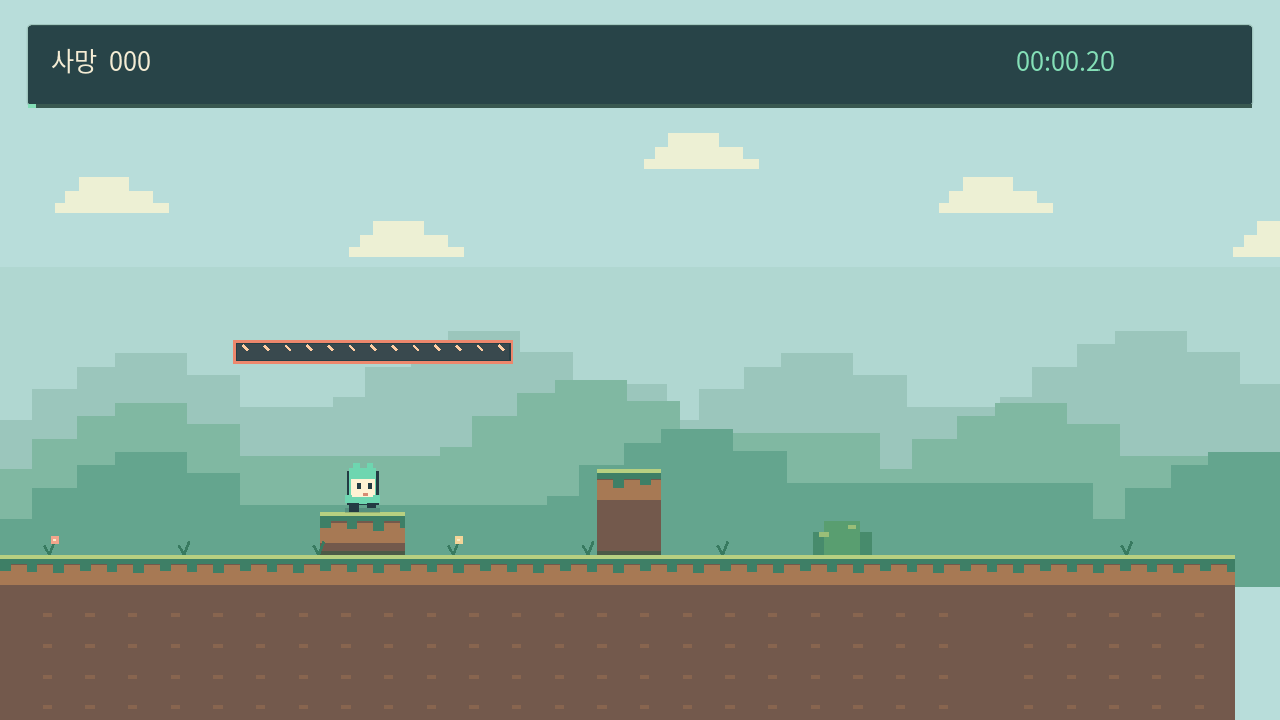
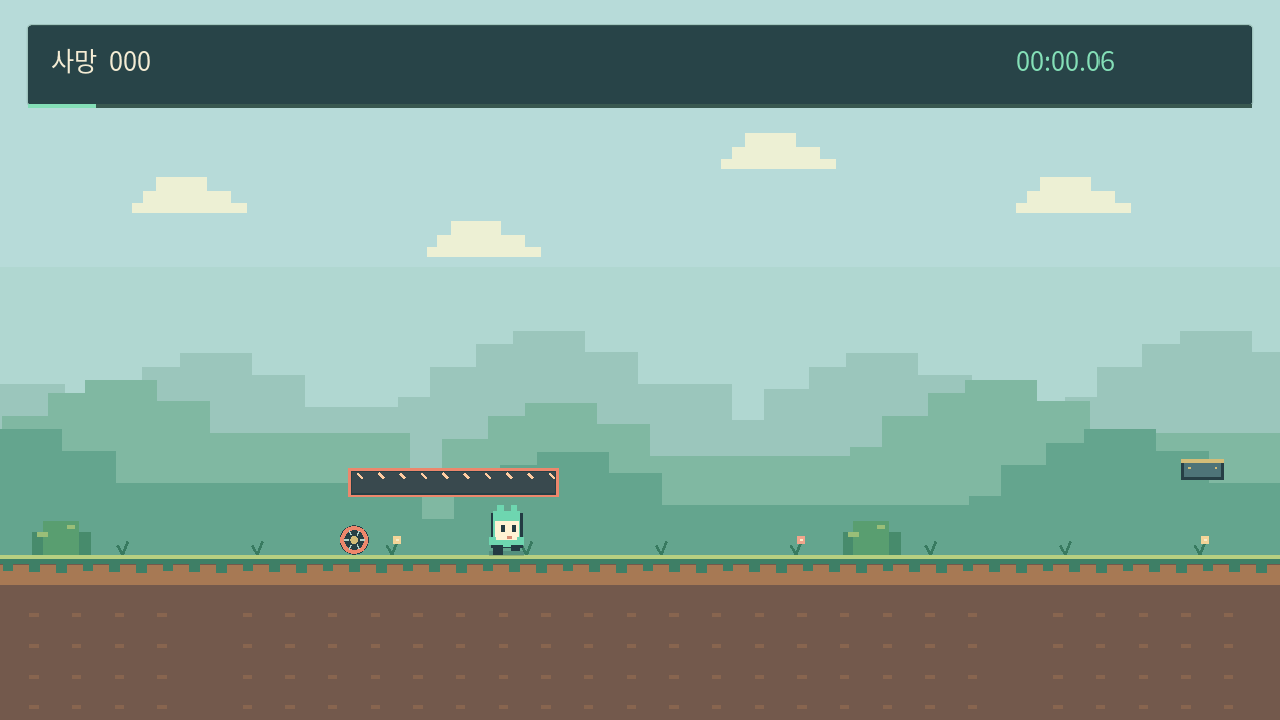
fix: restore trap decisions and restrict climbing to grip walls

diff --git a/docs/COURSE_IMPLEMENTATION.md b/docs/COURSE_IMPLEMENTATION.md
@@ -1,8 +1,14 @@
-# 연속 코스 구현 — v0.5.0
+# 연속 코스 구현 — v0.5.1
 
 단일 월드 **27,968px**에서 길이 560~896px의 40개 만남을 끊김 없이 진행한다. `WIDTHS`, `OFFSETS`, `origin()`, `number_at()`이 실제 경계를 정의하며 카메라 잠금·방 전환은 없다. 감지 위치도 구간마다 다르다. 체크포인트는 **x=10,992와 22,304 두 곳**이며 추가하지 않았다. 구간 번호와 아래 해법은 개발 문서에만 있다.
 
-## 0.5.0 공통 요소와 공간
+## 0.5.1 원래 함정 구조와 벽타기 제한
+
+0.5.0의 첫 점프 완화와 넓은 머리 공간은 원복했다. 첫 사각형은 작동 전 없다가 원래 0.025초 임계값 뒤 x=176/y=304/폭168/높이18로 나타난다. 짧은 첫 점프는 통과하고 긴 점프는 사망한다. 공통 낮은 천장은 0.4.1보다 16px만 올린 y=352/높이20으로, 귀 위7px를 남기지만 짧은 점프도 허용하지 않는다. 옆에서 들어오는 3·5번 칼날의 원래 시계와 이동은 유지한다. 4·15·16 스위치 높이, 12번 대기 낙하물과 16번 오답 낙하 위치, 36번 개별 천장은 0.4.1 위치로 돌렸다. 후반 연속 공격에 추가 변경은 하지 않았다.
+
+벽 오르기·벽 점프·벽 미끄럼은 `climbable_walls`의 실제 측면 충돌에서만 허용한다. 현재 14번 등반 기둥 하나에 손잡이를 그렸으며 인접 지형·문·발판에는 권한이 없다. 23번의 사슬→아이템 충전→높은 벽 경로는 자유 등반 없이 통과한다. 공중 점프 아이템과 사슬 물리는 유지한다. 코스 ID는 `continuous-40-v4`, v3 최고 기록은 보관하고 누적 횟수/설정은 유지한다.
+
+## 0.5.0 공통 요소와 공간 (당시 변경 이력)
 
 [요소 공통 규칙](ELEMENT_RULES.md)에 따라 지형·안전 발판·작동 장치·이동 기믹·아이템·치명적 장애물을 같은 종류와 재질로 관리한다. 원형 칼날은 원 판정, 치명적 고체는 실제 접촉을 사용한다. 크기로 종류를 추정하던 렌더와 문 바깥 2px 피해 영역을 제거했다. 숨은 바닥/센서는 계속 주변 지면과 같은 모습이다.
 
@@ -37,7 +43,7 @@
 - `encounter.gd`: 40개 감지/판단과 대기→발동→활성→소진 상태. 물리 120Hz 시계로 위험 도형, 스위치, 이동 표면을 갱신한다. 사망 횟수나 난수로 규칙을 바꾸지 않는다.
 - `surface.gd`: 실제 콜라이더를 가진 붕괴/이동/승강/벨트. 캐릭터에 표면 변위와 접촉 중 벨트 속도를 적용하고 이탈 속도를 추가 상속하지 않는다.
 - `device.gd`: 실제 접촉으로 얻는 공중 점프 1회 충전, 다리/미끼 아이템, 점프대, 매달리고 오르내리는 사슬.
-- `player.gd`: 기본 이동/가변 점프/코요테/버퍼, 충전 공중 점프, 벽 슬라이드·W 오르기·벽 점프, 사슬 오르내리기와 점프 이탈. 점프대는 -760px/s로 발사하며 버튼 해제로 잘리지 않는다.
+- `player.gd`: 기본 이동/가변 점프/코요테/버퍼, 충전 공중 점프, 지정 벽에서만 벽 슬라이드·W 오르기·벽 점프, 사슬 오르내리기와 점프 이탈. 점프대는 -760px/s로 발사하며 버튼 해제로 잘리지 않는다.
 
 사망·재시작은 모든 센서, 타이머, 발자국 예약, 표면 위치·충돌, 아이템, 미끼, 압력판, 가짜 연출, 사슬 소유와 임시 점프 충전을 함께 초기화한다. 이미 활성화한 체크포인트는 사망 시 유지한다. 일시정지 중 입력과 시계·표면·사슬은 멈춘다. 가짜 피격과 가짜 문은 실제 사망/클리어/입력 잠금을 호출하지 않는다.
 
@@ -45,7 +51,7 @@
 
 | # | 초기 카드의 판단 | 현재 구현 / 추가 기믹 |
 |---|---|---|
-|01|첫 점프 수금|첫 평지 점프는 길게 눌러도 허용. 단차 위 재도약에는 천장이 남고, 뒤 높은 지형은 긴 점프로 통과|
+|01|첫 점프 수금|사전 표시 없이 사각형 등장. 첫 단차는 짧게, 뒤 높은 지형은 길게 점프|
 |02|도착지는 없다|중간선에서 큰 착지판 붕괴. 작은 실제 판에서 두 번 도약|
 |03|걷기만 하면 죽는다|낮은 천장을 벗어난 뒤 뒤 칼을 넘는 늦은 도약|
 |04|안전한 대기실|공통 시계 통로. 실제 머리 접촉으로 일찍 여는 경로 추가|
@@ -90,7 +96,7 @@
 
 ## 기록 호환
 
-같은 사용자 폴더와 기존 저장 형식을 사용한다. 누적 시작/사망/클리어와 소리 설정은 보존한다. 맵이 달라진 이전 최고 시간·무사망·비밀 기록은 `legacy`의 이전 코스 키(`meadow-v1`, `continuous-40-v1`, `continuous-40-v2`)로 보관하고 새 코스의 해당 기록을 별도로 시작한다. 플레이 도중 위치는 현재 체크포인트에서만 복귀하며 프로그램 재실행 후 위치를 복원하는 기능은 기존처럼 제공하지 않는다.
+같은 사용자 폴더와 기존 저장 형식을 사용한다. 누적 시작/사망/클리어와 소리 설정은 보존한다. 맵이 달라진 이전 최고 시간·무사망·비밀 기록은 `legacy`의 이전 코스 키(`meadow-v1`, `continuous-40-v1`, `continuous-40-v2`, `continuous-40-v3`)로 보관하고 새 코스의 해당 기록을 별도로 시작한다. 플레이 도중 위치는 현재 체크포인트에서만 복귀하며 프로그램 재실행 후 위치를 복원하는 기능은 기존처럼 제공하지 않는다.
 
 ## 검증
 
@@ -104,3 +110,5 @@
 Linux X11/Mesa의 렌더 캡처는 숨은 판 4곳, 파손 전후, 세로로 긴 화면의 지면, 초반 지형과 상부 길을 확인했다. 시각 점검용 초기 위치 지정은 전체 공략 결과에 포함하지 않는다. 테스트·Windows 설치 검증 결과는 `VALIDATION.md`에 기록한다.
 
 - `elements_tests.gd`: 실제 고체 접촉의 안전/살상 구분, 원형 칼날 모서리, 그룹, 처음 긴 도약과 단차 위 오답, 머리 공간과 v2 기록 보관을 검사한다.
+
+- `movement_scope_tests.gd`: 두 측면 공격 통로의 작은 여백과 짧은 점프 사망, 전용 벽 등반/벽 점프, 일반 벽의 등반/반복 벽 점프/감속 차단과 아이템 점프 보존을 실제 충돌/입력으로 확인한다.

diff --git a/docs/ELEMENT_RULES.md b/docs/ELEMENT_RULES.md
@@ -1,4 +1,4 @@
-# 요소 공통 규칙 — 0.5.0
+# 요소 공통 규칙 — 0.5.1
 
 `scripts/elements.gd`가 요소 종류, 그룹, 재질, 접촉 규칙과 기본 머리 공간을 정의한다. 크기를 보고 위험물 종류를 추정하지 않는다. 설명문이나 범례는 게임 화면에 넣지 않는다.
 
@@ -21,12 +21,19 @@
 - 원형 칼날은 원과 캐릭터 피해 상자의 접촉으로 검사한다. 사각형 모서리에 보이지 않는 피해가 없다. 다른 공격은 표시된 사각형을 쓴다.
 - 이동 발판의 운반, 착지, 점프대/충전/사슬 조작은 기존 공통 플레이어 물리를 사용한다.
 
-## 머리 공간
+## 공간과 난이도
 
-캐릭터 귀까지 37px를 포함해 서 있는 위치에서 최소 48px의 기본 머리 공간을 잡는다. 평지 낮은 천장은 y=312, 두께 16으로, 지면 y=416에서 51px를 남긴다. 머리 스위치 4·15·16과 12번 대기 중 낙하물에도 같은 기준을 적용했다. 고의로 압착되는 작동 중 상태나 승강기 꼭대기 같은 개별 위험 상황은 이 대기 공간 기준과 구별한다.
+지형/장치의 재질 통일과 난이도 조정은 별개다. 시각 정리 요청만으로 점프 조건이나 정답 동작을 완화하지 않는다. 0.5.0에서 넓힌 첫 함정과 스위치/낙하물 위치는 0.5.1에서 원복했다.
 
-1번은 천장을 y=224에서 256으로 내리고 두께 16, 폭 208로 구성했다. 첫 단차 y=384 위에서 귀까지의 간격이 이전 25px에서 75px로 늘었다. 평지에서 처음 누르는 긴 점프도 통과하며 정점에서도 약 20px를 남긴다. 높은 단차 위에서 다시 긴 점프를 하면 천장에 닿는다. 처음부터 짧은 점프만 강요하던 배치를 완화하면서 이후의 높이 선택은 유지한다.
+- 첫 사각형은 작동 전 보이지 않는다. 공중 진입 조건 뒤 시계가 0.025초를 넘으면 x=176/y=304, 폭168/높이18로 나타난다. 대기 하우징·0.18초 하강 동작을 제거했다. 첫 짧은 점프는 통과하고 긴 점프는 사망한다.
+- 공통 낮은 천장은 원래 y=368/높이20에서 **y=352/높이20**으로 16px만 올렸다. 평지 y=416에서 귀까지37px를 포함해 7px를 남긴다. 테두리를 고려해도 최소6px를 남기는 기준이다. 짧게 눌렀다 떼는 점프도 부딪히므로 천장 밖에서 뛰거나 후퇴하는 기존 판단을 유지한다. 3·5번 옆으로 들어오는 칼날의 센서·속도·진행 방향·공격 시간은 바꾸지 않았다.
+- 4·15·16 머리 스위치는 y=344/344/336, 12번 낙하물 대기 위치는 y=320, 16번 오답 낙하는 x=308, 36번 천장은 y=320/높이16으로 원복했다. 일반 천장의 간격 기준을 머리 접촉 스위치나 승강기 꼭대기에 강제하지 않는다.
+- 후반 연속 공격에 별도 난이도 변경을 추가하지 않는다. 공통 색/종류와 센서 숨김, 기존 걸쇠 문 동작은 유지한다.
 
-머리 스위치가 올라간 만큼 4번은 충분히 길게 도약해야 작동하며, 16번 오답 뒤 낙하물은 x=368로 이동해 실제 오답 경로에서 작동한다. 40개 구간의 길이와 두 체크포인트는 유지한다. 코스는 `continuous-40-v3`로 구별하고 v2 최고 기록은 보관한다.
+## 벽타기 범위
 
-검증은 `tests/elements_tests.gd`, 전체 두 경로와 오답 40개 검사로 수행한다. 새 요소를 추가할 때 이 파일의 종류/렌더러/접촉 규칙을 재사용하고, 지형에 위험 재질을 임의로 섞거나 안전 발판에 피해 판정을 붙이지 않는다.
+기본 벽 오르기·벽 점프·벽 미끄럼 감속은 사용할 수 없다. `course.gd`의 `climbable_solids`에 지정한 정적 지형만 `climbable_walls` 그룹에 넣는다. 현재는 14번 로컬 x=344/y=224의 기둥 한 개다. 방 전체, 모든 흙 벽, 이동 발판이나 문을 허용하지 않는다. 지정 벽에는 금속 손잡이를 그리며 안내문은 추가하지 않는다.
+
+플레이어는 직전 실제 측면 충돌의 콜라이더와 법선을 확인해 세 기능을 함께 허용한다. 전용 벽에서 떠나면 일반 벽으로 권한이 넘어가지 않는다. 지상 점프·아이템 충전 공중 점프·사슬 동작은 유지한다. 특히 23번 높은 벽은 사슬과 실제 충전을 이용해 통과하며 자유 벽타기로 대체하지 않는다.
+
+40개 구간의 길이와 두 체크포인트는 유지한다. 첫 점프 원복과 벽타기 제한으로 코스는 `continuous-40-v4`이며 v3 최고 기록은 보관한다. 누적 횟수와 설정은 유지한다. `elements_tests.gd`, `movement_scope_tests.gd`와 전체 두 경로·오답 40개를 검사한다. 새 요소는 공통 종류/렌더러/접촉 규칙을 재사용한다.

diff --git a/docs/VALIDATION.md b/docs/VALIDATION.md
@@ -118,3 +118,13 @@ Godot 4.6.3에서 지형·안전 발판·문/스위치·이동 장치·아이템
 - Linux X11/Xvfb/Mesa 소프트웨어 OpenGL에서 타이틀·초반 단차/첫 도약·안전 걸쇠 문·치명적 압착기·사슬을 캡처했다. 안전/위험 재질과 여유 공간, 센서 미표시를 확인하고 공개 스크린샷을 현재 렌더로 갱신했다. 캡처의 위치 지정은 실제 입력 완주 검증과 구별한다.
 - `continuous-40-v2` 최고 기록 보관과 누적 횟수/설정 보존을 검사했다. 새 코스 ID는 v3이다.
 - Android는 공통 코드 재사용과 추가 작업을 [검토](ANDROID_PLAN.md)했다. APK 내보내기나 실기기 터치/성능은 검증하지 않았다. Windows 설치·재설치·기동·제거 및 기록 보존은 배포 CI에서 확인한다.
+
+## v0.5.1 구조 원복과 벽타기 범위
+
+0.5.0의 공간 확대를 원복하고, 공통 낮은 천장만 0.4.1보다16px 높여 귀 위7px를 남겼다. 첫 사각형은 하우징/하강 없이 원래 임계값 뒤 나타난다. 4·15·16 스위치, 12번 대기 낙하물, 16번 오답 낙하와 36번 천장 위치도 원복했다. 재질/종류 통일과 센서 숨김은 유지한다.
+
+- 기존 641개와 새 이동 범위14개로 **655개 검사 통과**, 릴리스 설정2개와 워크플로 YAML 파싱 통과. 3·5번에서 실제 서 있는 캐릭터의 작은 간격을 검사하고, 2틱만 점프를 눌러도 사망하는 것을 확인했다. 첫 짧은 점프 성공/긴 점프 실패와 작동 전 미표시도 검사한다.
+- 실제 14번 기둥만 등반 그룹에 속한다. 등반/벽 점프는 유지하고, 일반 벽에서 W로 오르기·반복 벽 점프·감속이 불가능한 것을 실제 충돌/입력으로 확인했다. 일반 벽에서도 충전 아이템 점프는 사용/소진되며, 이전 전용 벽 접촉이나 일시정지로 권한이 넘어가지 않는다.
+- 일반 완주 **148.925초 / 17,871틱**, 숙련 완주 **135.433초 / 16,252틱**. 모두 사망0회·체크포인트2개·비밀 별 획득, 구간 이동 없이 시작부터 실제 입력을 사용했다. 23번의 사슬/충전/벽 통과를 포함하며 자유 벽타기를 사용하지 않는다. 두 테이프의 30fps 재생과 장치 위 일시정지3회에서도 매 틱 위치/최종 시간이 일치했다.
+- Linux X11/Xvfb/Mesa OpenGL에서 첫 함정 작동 전/후, 두 측면 공격 통로의 작은 간격과 전용 벽 손잡이/등반을 캡처했다. 공개 이미지를 현재 타이틀/플레이로 갱신했다. 캡처는 개발용 위치 지정이며 입력 완주와 구별한다. Windows 설치·재설치·실행·제거 및 기록 보존은 배포 CI에서 확인한다.
+- 코스 ID는 v4이며 v3 최고 기록 보관과 누적 횟수/설정 보존을 검사했다. 이전 버전의 넓은 머리 공간 설명은 당시 변경 이력이다.

diff --git a/docs/DEVELOPMENT.md b/docs/DEVELOPMENT.md
@@ -32,6 +32,7 @@ godot --headless --fixed-fps 120 --script tests/course_tests.gd -- --test
 godot --headless --fixed-fps 120 --script tests/gameplay_revision_tests.gd -- --test
 godot --headless --fixed-fps 120 --script tests/fairness_tests.gd -- --test
 godot --headless --fixed-fps 120 --script tests/elements_tests.gd -- --test
+godot --headless --fixed-fps 120 --script tests/movement_scope_tests.gd -- --test
 godot --headless --fixed-fps 120 --script tests/wrong_routes.gd -- --test
 godot --headless --fixed-fps 120 --script tests/playthrough.gd -- --test
 godot --headless --fixed-fps 30 --script tests/replay.gd -- --test --pauses
@@ -121,3 +122,5 @@ v0.5.0은 단일 씬에서 40개 구간을 끊김 없이 진행합니다. 체크
 ## 공통 요소와 Android
 
 요소 종류·그룹·재질·접촉 규칙·머리 공간은 `scripts/elements.gd`와 [요소 규칙](ELEMENT_RULES.md)을 따른다. 지형·발판·장치·위험물을 추가할 때 같은 렌더러와 종류를 사용한다. 플랫폼별 게임 로직을 복제하지 않는다. Android의 추가 입력/기기 검수와 권장 도입 순서는 [Android 검토](ANDROID_PLAN.md)에 정리했다.
+
+벽타기 허용 지형은 `course.gd`의 `climbable_solids`로 지정하며, 실제 측면 콜라이더가 `climbable_walls`에 속할 때만 오르기/벽 점프/감속을 허용한다. 시각 정리만으로 점프 난이도를 바꾸지 않는 기준은 [요소 규칙](ELEMENT_RULES.md)을 따른다.

diff --git a/docs/RELEASE_NOTES.md b/docs/RELEASE_NOTES.md
@@ -1,8 +1,8 @@
-# 0.5.0
+# 0.5.1
 
-- 지형·발판·장치·장애물의 모양과 재질 통일
-- 초반과 낮은 천장의 여유 공간 확대
-- 일부 접촉 판정 조정
+- 첫 장애물과 일부 구간의 기존 배치·동작 복원
+- 낮은 천장의 간격 소폭 조정
+- 전용 벽에서만 벽타기·벽 점프 가능
 
 기존 최고 기록은 보관하며 새 코스 기록을 시작합니다. 누적 횟수와 설정은 유지됩니다.
 
